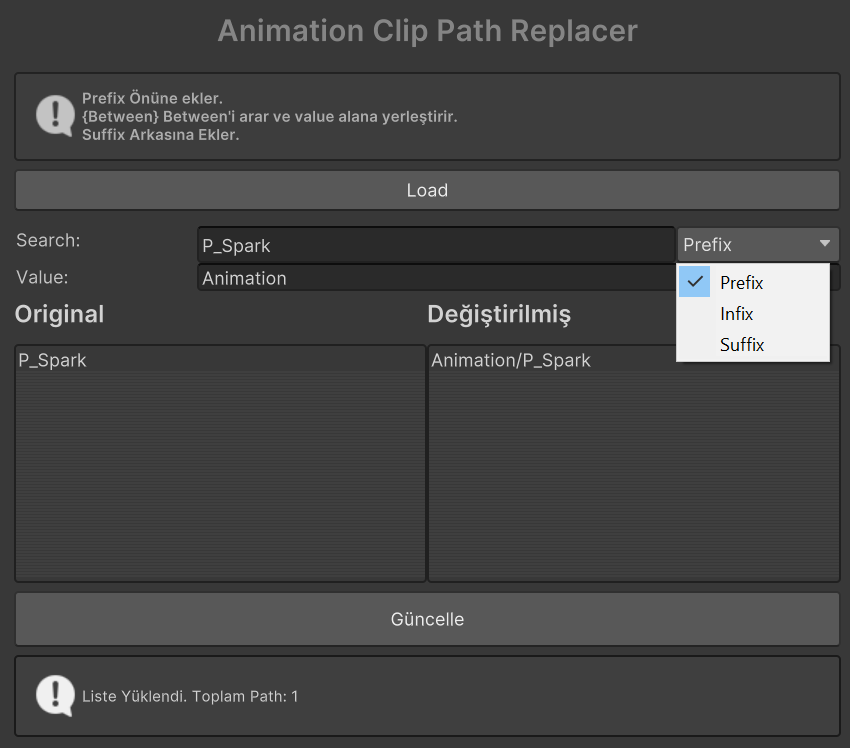
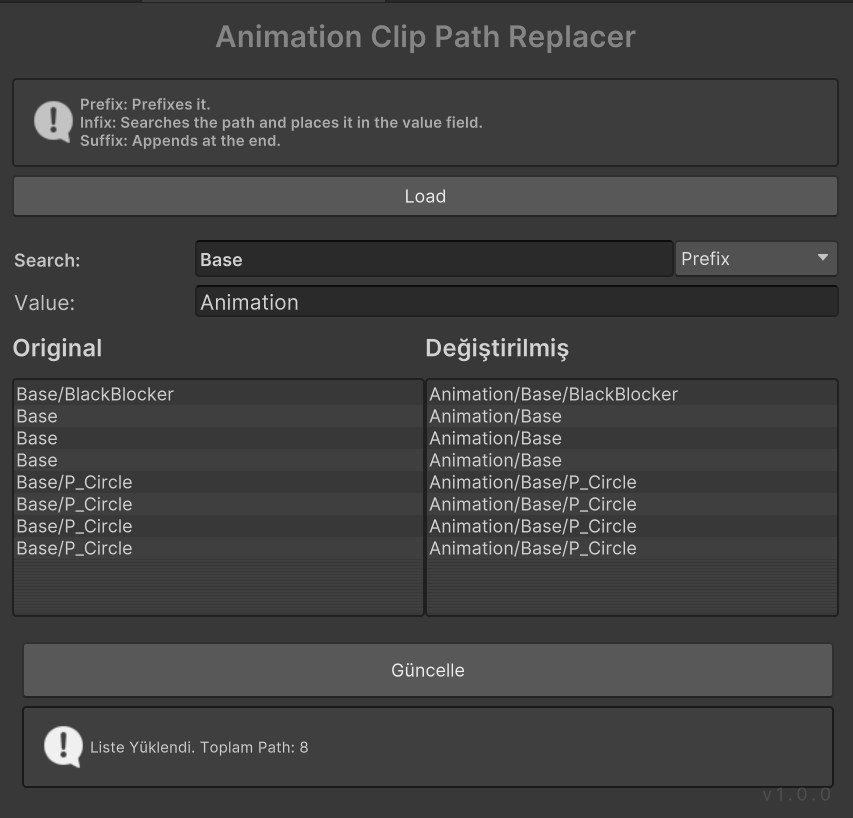
added version title

diff --git a/Assets/Editor/AnimationPathReplacer.cs b/Assets/Editor/AnimationPathReplacer.cs
@@ -39,12 +39,16 @@ public class AnimationPathReplacer : EditorWindow
         Suffix
     }
 
+
+
     private void CreateGUI()
     {
         // Load the UXML file
         var visualTree = AssetDatabase.LoadAssetAtPath<VisualTreeAsset>("Assets/Editor/AnimationPathReplacer_UI.uxml");
         var root = visualTree.CloneTree();
         rootVisualElement.Add(root);
+
+        root.Q<Label>("versionTitle").text = "v1.0.0";
 
         // Find and assign ListViews and TextFields
         originalPathListView = root.Q<ListView>("OriginalListView");
